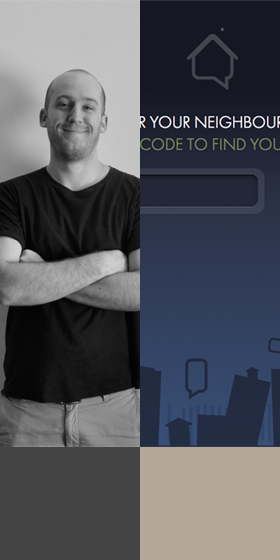
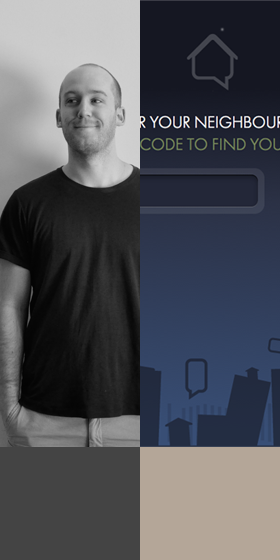
changed my photos

Changed region(s): [[0.0, 0.0911, 0.5143, 0.8196]]

diff --git a/public/stylesheets/style.css b/public/stylesheets/style.css
@@ -126,3 +126,7 @@ li a {
 li a:hover {
 	color:#a69d92;
 }
+
+#profilepics li a {
+	text-decoration: none !important;
+}
